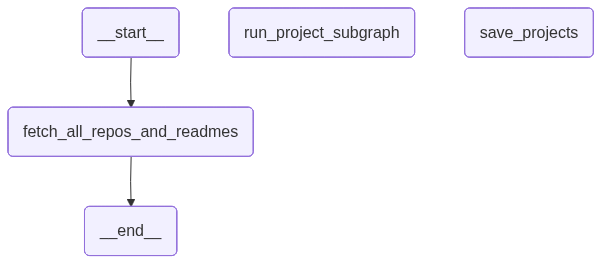
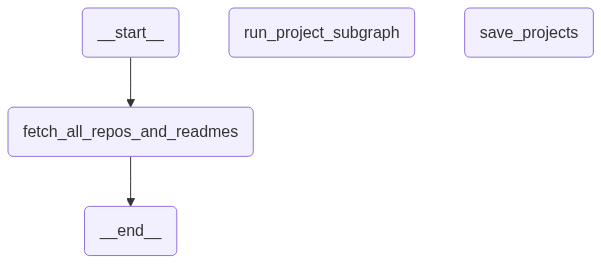
feat: initialize portfolio agent with LLM chatbot, project schemas, and database configuration

diff --git a/agents/github_project_scanner_agent.py b/agents/github_project_scanner_agent.py
@@ -18,11 +18,12 @@ from typing import Literal
 from pymongo import UpdateOne
 import time
 import threading
+import json
 load_dotenv()
 
 cf_lock = threading.Lock()
 github_token = os.getenv("GITHUB_API")
-llm = ChatGroq(model="llama-3.1-8b-instant",temperature=0.5)
+llm = ChatGroq(model="qwen/qwen3.8-27b", temperature=0.5)
 
 class SubGraphState(TypedDict):
     title:str
@@ -41,18 +42,13 @@ class SuperGraphState(TypedDict):
     route:Literal["subGraph","end"]
     
 def subGraph() -> StateGraph:
-    class details(BaseModel):
-        description: str = Field(description="A concise 8-line summary of the project's purpose and functionality.")
-        languages: dict = Field(description="A dictionary of programming languages used and their estimated percentage.")
-
-    detail_llm = llm.with_structured_output(details)
     
     def detail_generator(state:SubGraphState) -> dict:
         """It generate the description and what languages used through analysing readme of the project"""
         
         raw_readme = state.get("readme","")
         
-        MAX_SAFE_LENGTH = 12000
+        MAX_SAFE_LENGTH = 15000
         
         if len(raw_readme) > MAX_SAFE_LENGTH:
             print(f"README too large ({len(raw_readme)} chars). Initiating Map-Reduce...")
@@ -68,11 +64,25 @@ def subGraph() -> StateGraph:
             )
             
             mapped_summaries = []
-            for i,chunk in enumerate(chunks):
-                formatted_map = map_prompt.format_messages(chunk = chunk)
+            for i, chunk in enumerate(chunks):
+                formatted_map = map_prompt.format_messages(chunk=chunk)
                 
-                chunk_result = llm.invoke(formatted_map)
-                mapped_summaries.append(chunk_result.content)
+                chunk_result = None
+                for attempt in range(5):
+                    try:
+                        chunk_result = llm.invoke(formatted_map)
+                        break
+                    except Exception as e:
+                        if "429" in str(e) or "rate_limit" in str(e).lower():
+                            wait_time = 15 * (2 ** attempt)  # Exponential backoff: 15s, 30s, 60s, 120s, 240s (free tier)
+                            print(f"Rate limit hit on chunk {i+1}/{len(chunks)} for {state['title']}. Waiting {wait_time}s... (Attempt {attempt+1}/5)")
+                            time.sleep(wait_time)
+                        else:
+                            raise e
+                
+                if chunk_result:
+                    mapped_summaries.append(chunk_result.content)
+                    time.sleep(3)  # 3-second delay between chunks for free tier
             processed_readme_context = "\n\n--- Next Chunk Summary ---\n\n".join(mapped_summaries)
         else:
             processed_readme_context = raw_readme
@@ -91,9 +101,8 @@ def subGraph() -> StateGraph:
             2. LANGUAGES & TOOLS: List the primary programming languages and frameworks found.
 
             OUTPUT FORMAT:
-            Return your response in a valid JSON-like structure (or plain text if preferred) with these keys:
-            - description
-            - languages"""
+            Return your response in valid JSON with these keys:
+            {{"description": "...", "languages": {{...}}}}"""
         ),
         (
             "human", 
@@ -104,12 +113,13 @@ def subGraph() -> StateGraph:
         result = None
         for attempt in range(5): 
             try:
-                result = detail_llm.invoke(formatted_message)
+                result = llm.invoke(formatted_message)
                 break 
             except Exception as e:
                 if "429" in str(e) or "rate_limit" in str(e).lower():
-                    print(f"Groq Rate Limit hit for {state['title']}. Waiting 10 seconds... (Attempt {attempt+1}/5)")
-                    time.sleep(10)
+                    wait_time = 15 * (2 ** attempt)  # Exponential backoff: 15s, 30s, 60s, 120s, 240s (free tier)
+                    print(f"Groq Rate Limit hit for {state['title']}. Waiting {wait_time}s... (Attempt {attempt+1}/5)")
+                    time.sleep(wait_time)
                 else:
                     print(f"Groq error: {e}")
                     raise e 
@@ -117,9 +127,34 @@ def subGraph() -> StateGraph:
         if not result:
             return {"description": "Description generation failed.", "languages": {}}
         
+        # Parse JSON response manually
+        try:
+            content = result.content
+            
+            # Handle markdown code blocks (```json...```)
+            if "```json" in content:
+                # Extract JSON from markdown code block
+                start_idx = content.find("```json") + 7
+                end_idx = content.find("```", start_idx)
+                if end_idx != -1:
+                    content = content[start_idx:end_idx].strip()
+            elif "```" in content:
+                # Extract from generic code block
+                start_idx = content.find("```") + 3
+                end_idx = content.find("```", start_idx)
+                if end_idx != -1:
+                    content = content[start_idx:end_idx].strip()
+            
+            parsed = json.loads(content)
+            description = parsed.get("description", "")
+            languages = parsed.get("languages", {})
+        except json.JSONDecodeError as e:
+            print(f"Failed to parse JSON for {state['title']}. Raw response: {content}")
+            return {"description": "Failed to parse response.", "languages": {}}
+        
         return {
-            "description":result.description,
-            "languages":result.languages
+            "description": description,
+            "languages": languages
         }
     
     def image_generator(state:SubGraphState) -> dict:
@@ -198,7 +233,7 @@ def fetch_all_repos_and_readmes(state:SuperGraphState) -> dict:
     """Iterates through all repositories and fetches their README content."""
     try:
         projects = list_serial(collection_name.find())
-        ignore_repo = ["Hatim-Malak","Spring-boot-demo","spring_security","lunaris2.0","lunaris"]
+        ignore_repo = ["Hatim-Malak","Spring-boot-demo","spring_security","lunaris2.0","lunaris","admin-dashboard"]
         existing_projects_map = {p["title"]: str(p.get("updated_at")) for p in projects}
         g = Github(github_token)
         user = g.get_user()    

diff --git a/agents/chatbot.py b/agents/chatbot.py
@@ -13,7 +13,7 @@ from pydantic import BaseModel, Field
 from schemas.schema import list_serial
 
 load_dotenv()
-llm = ChatGroq(model="llama-3.3-70b-versatile",temperature=0.5)
+llm = ChatGroq(model="openai/gpt-oss-120b",temperature=0.5)
 
 raw_projects = list_serial(collection_name.find())
 compressed_projects = []
@@ -164,7 +164,7 @@ def chat_model(state:ChatState) -> dict:
         response = chain.invoke({"relevant_data": relevant_data, "query": query})
         return {"messages":[AIMessage(content=response.response_text)], "route": response.route}
     except Exception as e:
-        print(f"⚠ Chat Model Error (Rate limit/Token): {e}")
+        print(f"Chat Model Error (Rate limit/Token): {e}")
         fallback_text = (
             "I'm experiencing a very high volume of requests right now and need a quick breather! "
             "Please try asking again in a few seconds, or feel free to check out the Contact section to reach Hatim directly."

diff --git a/schemas/schema.py b/schemas/schema.py
@@ -14,3 +14,13 @@ def individual_serial(project) -> dict:
 
 def list_serial(projects) -> list:
     return [individual_serial(project) for project in projects]
+
+def individual_user_serial(user):
+    return {
+        "id":str(user["_id"]),
+        "email":user["email"],
+        "passwordHash":user["passwordHash"],
+    }
+
+def list_user_serial(users):
+    return [individual_user_serial(user) for user in users]

diff --git a/config/auth.py b/config/auth.py
@@ -1,0 +1,5 @@
+from datetime import timedelta,datetime
+from typing import Annotated
+from fastapi import APIRouter,Depends,HTTPException
+from pydantic import BaseModel
+from models.user import User

diff --git a/models/user.py b/models/user.py
@@ -1,0 +1,10 @@
+from pydantic import BaseModel
+
+
+class User(BaseModel):
+    email:str
+    passwordHash:str
+    role:str
+    created_at:str
+    updated_at:str
+    

diff --git a/config/database.py b/config/database.py
@@ -16,4 +16,5 @@ except Exception as e:
 
 db = client.portfolio
 collection_name = db["projects"]
+collection_user_name = db["user"]
 
